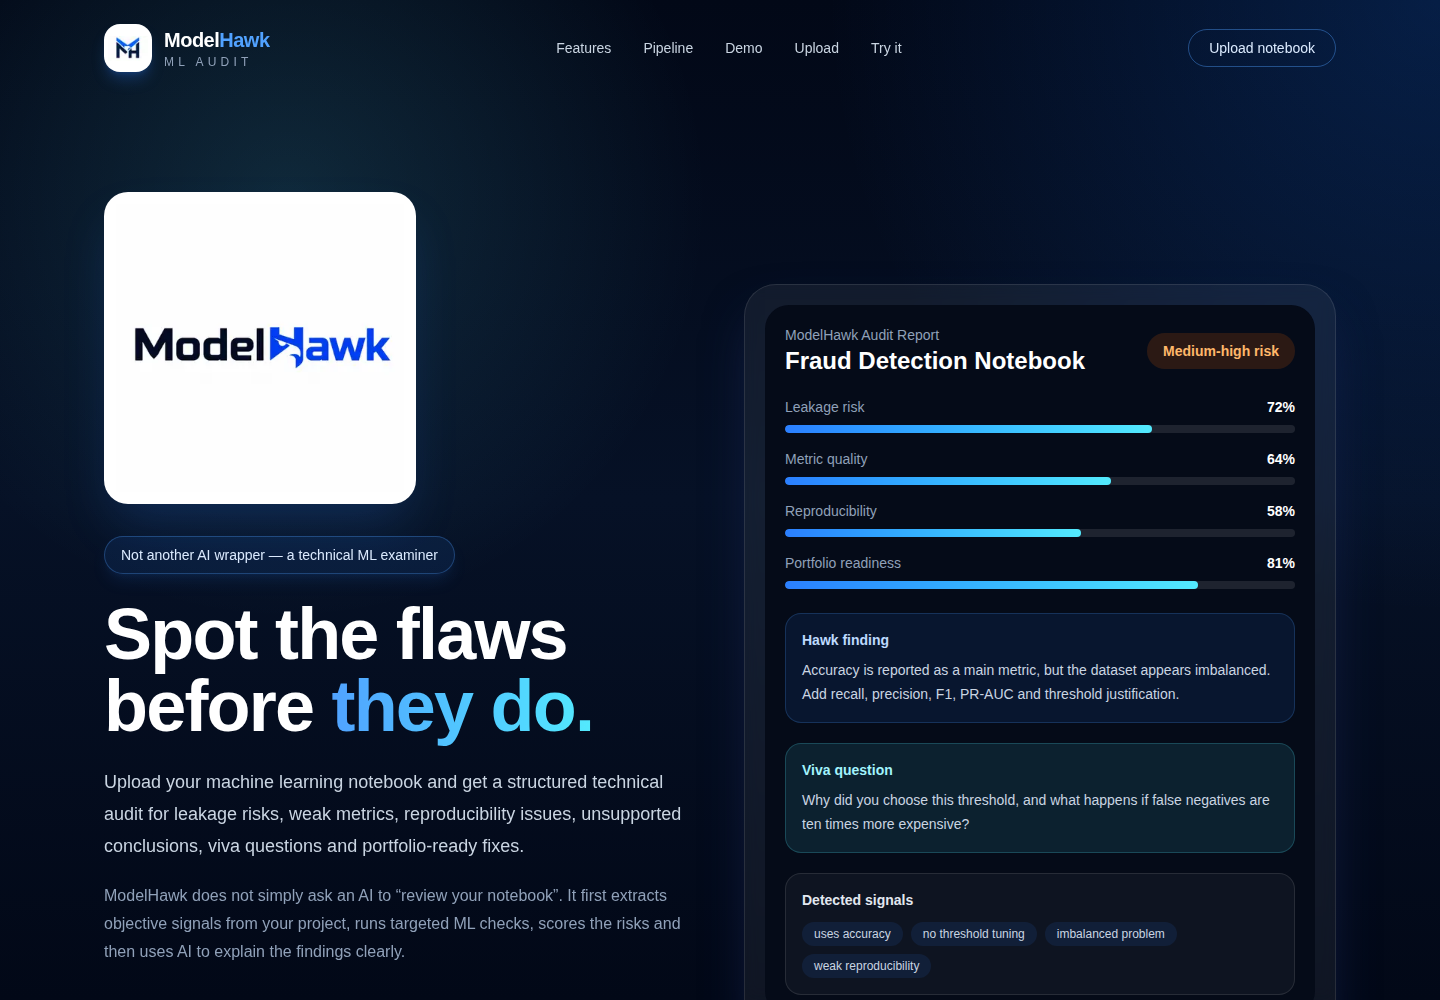
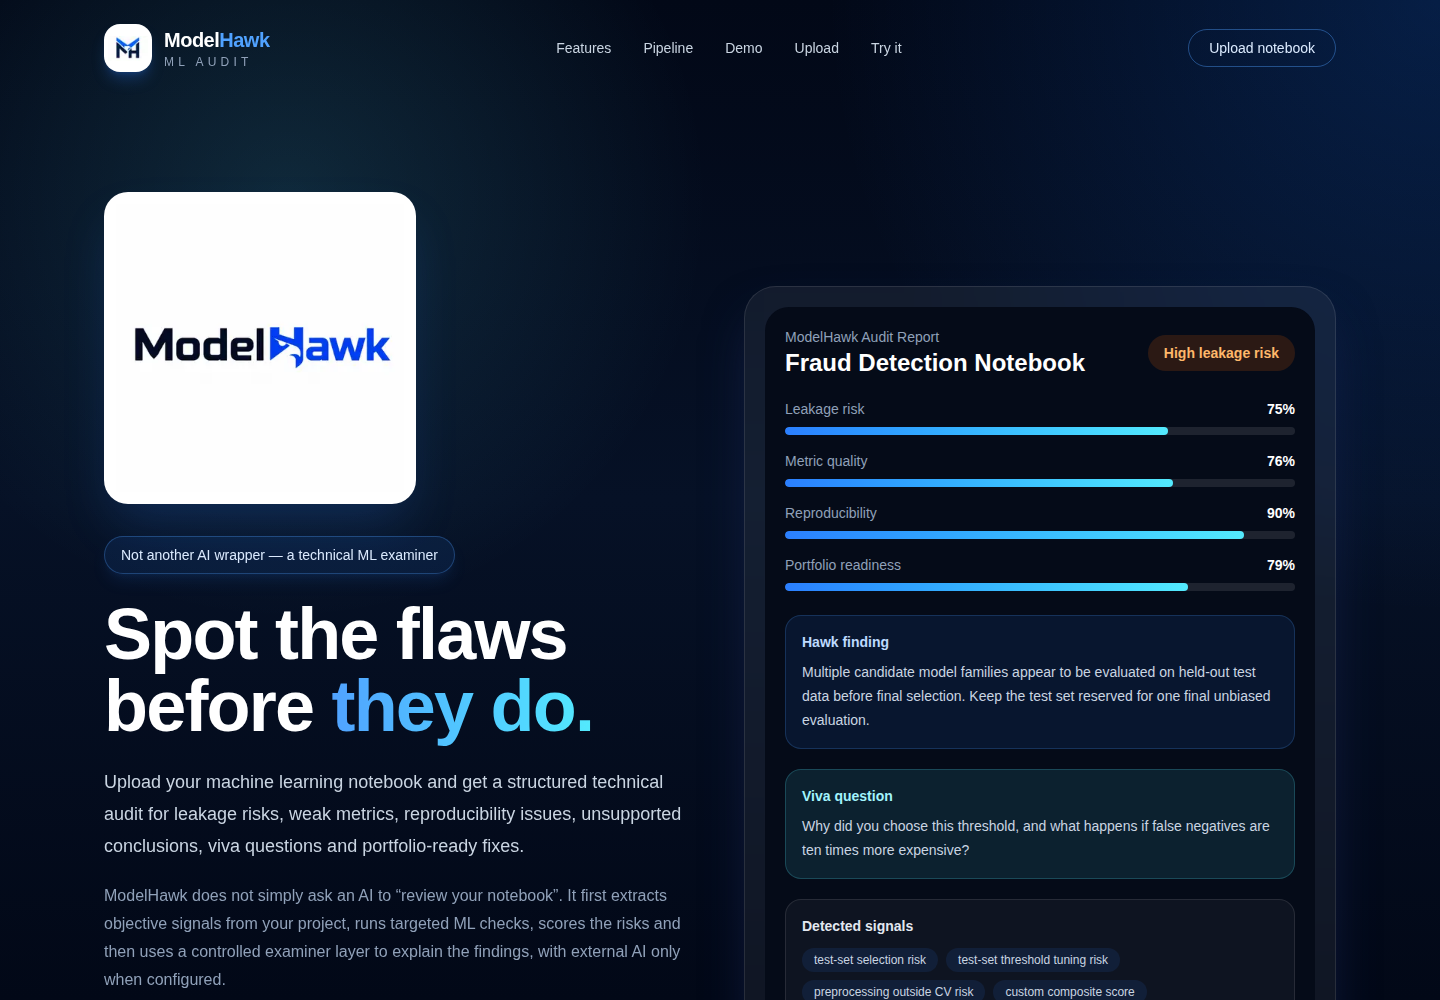
Finish recruiter-facing consistency and production contracts (#12)
Align recruiter-facing UI, metadata and screenshots with the hardened audit; strengthen production security headers, Dependabot policy and CI contracts for examiner, PDF and fail-closed API behavior.

diff --git a/app/page.tsx b/app/page.tsx
@@ -21,10 +21,10 @@ const checks = [
     label: "Scoring",
   },
   {
-    title: "AI Defense Report",
+    title: "Controlled Examiner Report",
     description:
-      "Use AI to explain the findings, generate viva questions and turn the audit into clear portfolio-ready feedback.",
-    label: "AI layer",
+      "Use a controlled examiner layer — AI-assisted when configured — to explain findings, generate viva questions and turn the audit into clear portfolio-ready feedback.",
+    label: "Examiner layer",
   },
 ];
 
@@ -162,8 +162,8 @@ export default function Home() {
           <p className="mt-5 max-w-2xl text-base leading-7 text-slate-400">
             ModelHawk does not simply ask an AI to “review your notebook”. It
             first extracts objective signals from your project, runs targeted ML
-            checks, scores the risks and then uses AI to explain the findings
-            clearly.
+            checks, scores the risks and then uses a controlled examiner layer
+            to explain the findings, with external AI only when configured.
           </p>
 
           <div className="mt-9 flex flex-col gap-4 sm:flex-row">
@@ -206,15 +206,15 @@ export default function Home() {
               </div>
 
               <div className="rounded-full bg-orange-500/15 px-4 py-2 text-sm font-semibold text-orange-300">
-                Medium-high risk
+                High leakage risk
               </div>
             </div>
 
             <div className="grid gap-4">
-              <AuditRow label="Leakage risk" value={72} />
-              <AuditRow label="Metric quality" value={64} />
-              <AuditRow label="Reproducibility" value={58} />
-              <AuditRow label="Portfolio readiness" value={81} />
+              <AuditRow label="Leakage risk" value={75} />
+              <AuditRow label="Metric quality" value={76} />
+              <AuditRow label="Reproducibility" value={90} />
+              <AuditRow label="Portfolio readiness" value={79} />
             </div>
 
             <div className="mt-6 rounded-2xl border border-blue-400/20 bg-blue-500/10 p-4">
@@ -222,9 +222,9 @@ export default function Home() {
                 Hawk finding
               </p>
               <p className="mt-2 text-sm leading-6 text-slate-300">
-                Accuracy is reported as a main metric, but the dataset appears
-                imbalanced. Add recall, precision, F1, PR-AUC and threshold
-                justification.
+                Multiple candidate model families appear to be evaluated on
+                held-out test data before final selection. Keep the test set
+                reserved for one final unbiased evaluation.
               </p>
             </div>
 
@@ -244,16 +244,16 @@ export default function Home() {
               </p>
               <div className="mt-3 flex flex-wrap gap-2 text-xs text-slate-300">
                 <span className="rounded-full bg-blue-500/10 px-3 py-1">
-                  uses accuracy
+                  test-set selection risk
                 </span>
                 <span className="rounded-full bg-blue-500/10 px-3 py-1">
-                  no threshold tuning
+                  test-set threshold tuning risk
                 </span>
                 <span className="rounded-full bg-blue-500/10 px-3 py-1">
-                  imbalanced problem
+                  preprocessing outside CV risk
                 </span>
                 <span className="rounded-full bg-blue-500/10 px-3 py-1">
-                  weak reproducibility
+                  custom composite score
                 </span>
               </div>
             </div>

diff --git a/app/upload/page.tsx b/app/upload/page.tsx
@@ -231,7 +231,7 @@ export default function UploadPage() {
       <section className="relative z-10 mx-auto grid max-w-7xl items-start gap-12 px-6 py-16 lg:grid-cols-[0.85fr_1.15fr]">
         <div>
           <div className="mb-6 inline-flex rounded-full border border-blue-400/30 bg-blue-500/10 px-4 py-2 text-sm text-blue-100">
-            Static audit + AI examiner
+            Static audit + controlled examiner
           </div>
 
           <h1 className="text-5xl font-black tracking-tight md:text-7xl">
@@ -243,14 +243,15 @@ export default function UploadPage() {
 
           <p className="mt-6 max-w-2xl text-lg leading-8 text-slate-300">
             ModelHawk reads your notebook, detects the project profile, applies
-            technical audit checks and then uses an AI examiner layer to
-            generate richer project-specific explanations.
+            technical audit checks and then uses a controlled examiner layer to
+            generate richer project-specific explanations, with external AI only
+            when a provider is configured.
           </p>
 
           <div className="mt-8 grid gap-3 text-sm text-slate-400">
             <InfoBox text="This version does not execute your notebook. It performs static analysis." />
             <InfoBox text="It detects project type, data modality, ML signals, risks, good practices and suggested notebook improvements." />
-            <InfoBox text="The AI examiner notes are generated by the configured AI provider using the audit result as evidence." />
+            <InfoBox text="Examiner notes are grounded in the audit result. If no external AI provider is configured, ModelHawk uses its deterministic fallback examiner." />
           </div>
         </div>
 
@@ -264,8 +265,8 @@ export default function UploadPage() {
 
             <p className="mt-3 text-sm leading-6 text-slate-400">
               Upload a Jupyter notebook file. ModelHawk will parse it, return
-              technical signals, generate risk scores and add AI examiner
-              notes.
+              technical signals, generate risk scores and add controlled
+              examiner notes.
             </p>
 
             <label className="mt-8 flex cursor-pointer flex-col items-center justify-center rounded-3xl border border-dashed border-blue-300/40 bg-blue-500/10 p-10 text-center transition hover:border-cyan-300/70 hover:bg-blue-500/15">
@@ -315,7 +316,7 @@ export default function UploadPage() {
               {loading
                 ? "Analysing notebook..."
                 : aiLoading
-                ? "Generating AI examiner notes..."
+                ? "Generating examiner notes..."
                 : "Run static audit"}
             </button>
 

diff --git a/app/layout.tsx b/app/layout.tsx
@@ -1,20 +1,50 @@
 import type { Metadata } from "next";
 import "./globals.css";
 
+const description =
+  "Static ML notebook auditing with deterministic methodology checks, AI-assisted review and production PDF reports.";
+
 export const metadata: Metadata = {
-  title: "ModelHawk",
-  description:
-    "Adversarial examiner for machine learning notebooks, metrics and project defense.",
-  icons: {
-    icon: "/modelhawk-favicon.png",
+  metadataBase: new URL("https://modelhawk.onrender.com"),
+  title: {
+    default: "ModelHawk | Static ML Notebook Auditor",
+    template: "%s | ModelHawk",
   },
+  description,
+  applicationName: "ModelHawk",
+  keywords: [
+    "machine learning",
+    "ML audit",
+    "Jupyter notebook",
+    "model evaluation",
+    "data leakage",
+    "reproducibility",
+  ],
+  authors: [{ name: "Alberto Reyes Castro" }],
+  creator: "Alberto Reyes Castro",
+  openGraph: {
+    type: "website",
+    url: "/",
+    title: "ModelHawk | Static ML Notebook Auditor",
+    description,
+    siteName: "ModelHawk",
+    images: [{
+      url: "/docs/screenshots/01-landing-page.png",
+      width: 1440,
+      height: 1000,
+      alt: "ModelHawk static ML notebook auditor",
+    }],
+  },
+  twitter: {
+    card: "summary_large_image",
+    title: "ModelHawk | Static ML Notebook Auditor",
+    description,
+    images: ["/docs/screenshots/01-landing-page.png"],
+  },
+  icons: { icon: "/modelhawk-favicon.png" },
 };
 
-export default function RootLayout({
-  children,
-}: Readonly<{
-  children: React.ReactNode;
-}>) {
+export default function RootLayout({ children }: Readonly<{ children: React.ReactNode }>) {
   return (
     <html lang="en">
       <body>{children}</body>

diff --git a/next.config.ts b/next.config.ts
@@ -1,23 +1,38 @@
 import type { NextConfig } from "next";
 
+const CONTENT_SECURITY_POLICY = [
+  "default-src 'self'",
+  "base-uri 'self'",
+  "form-action 'self'",
+  "frame-ancestors 'none'",
+  "object-src 'none'",
+  "img-src 'self' data: blob:",
+  "font-src 'self' data:",
+  "style-src 'self' 'unsafe-inline'",
+  "script-src 'self' 'unsafe-inline'",
+  "connect-src 'self'",
+  "worker-src 'self' blob:",
+  "manifest-src 'self'",
+  "upgrade-insecure-requests",
+].join("; ");
+
 const SECURITY_HEADERS = [
+  { key: "Content-Security-Policy", value: CONTENT_SECURITY_POLICY },
+  { key: "Strict-Transport-Security", value: "max-age=31536000; includeSubDomains" },
   { key: "X-Content-Type-Options", value: "nosniff" },
   { key: "X-Frame-Options", value: "DENY" },
+  { key: "X-DNS-Prefetch-Control", value: "off" },
   { key: "Referrer-Policy", value: "strict-origin-when-cross-origin" },
   { key: "Permissions-Policy", value: "camera=(), microphone=(), geolocation=()" },
   { key: "Cross-Origin-Opener-Policy", value: "same-origin" },
+  { key: "Cross-Origin-Resource-Policy", value: "same-origin" },
 ];
 
 const nextConfig: NextConfig = {
   output: "standalone",
   poweredByHeader: false,
   async headers() {
-    return [
-      {
-        source: "/(.*)",
-        headers: SECURITY_HEADERS,
-      },
-    ];
+    return [{ source: "/(.*)", headers: SECURITY_HEADERS }];
   },
 };
 

diff --git a/app/demo/page.tsx b/app/demo/page.tsx
@@ -166,9 +166,9 @@ export default function DemoPage() {
               </a>
             </div>
             <p className="mt-4 max-w-3xl text-xs leading-5 text-slate-500">
-              The previous sample PDF has been removed from this page because it
-              was generated before the hardened audit rules. A replacement will
-              only be published after it is regenerated from the current engine.
+              PDF reports are generated on demand from the current deterministic
+              audit result, so exported reports stay aligned with the hardened
+              rules used by the live application.
             </p>
           </div>
 

diff --git a/README.md b/README.md
@@ -58,7 +58,7 @@ Useful routes:
 - `/upload` — notebook upload workflow
 - `/api/health` — deployment health and revision endpoint
 
-The public instance currently runs on Render's free web-service tier. It can spin down after inactivity, so the first request after an idle period may be noticeably slower. The application itself is containerised and the same Docker image is exercised in CI before merge. Render is configured to deploy from `main` only after the GitHub checks pass.
+The public instance currently runs on Render's free web-service tier. It can spin down after inactivity, so the first request after an idle period may briefly show Render's loading screen while the service wakes. The application itself is containerised and the same Docker image is exercised in CI before merge. Render is configured to deploy from `main` only after the GitHub checks pass.
 
 The public deployment does not require a hosted AI-provider key. If no external provider is configured, the examiner layer uses the deterministic fallback path.
 
